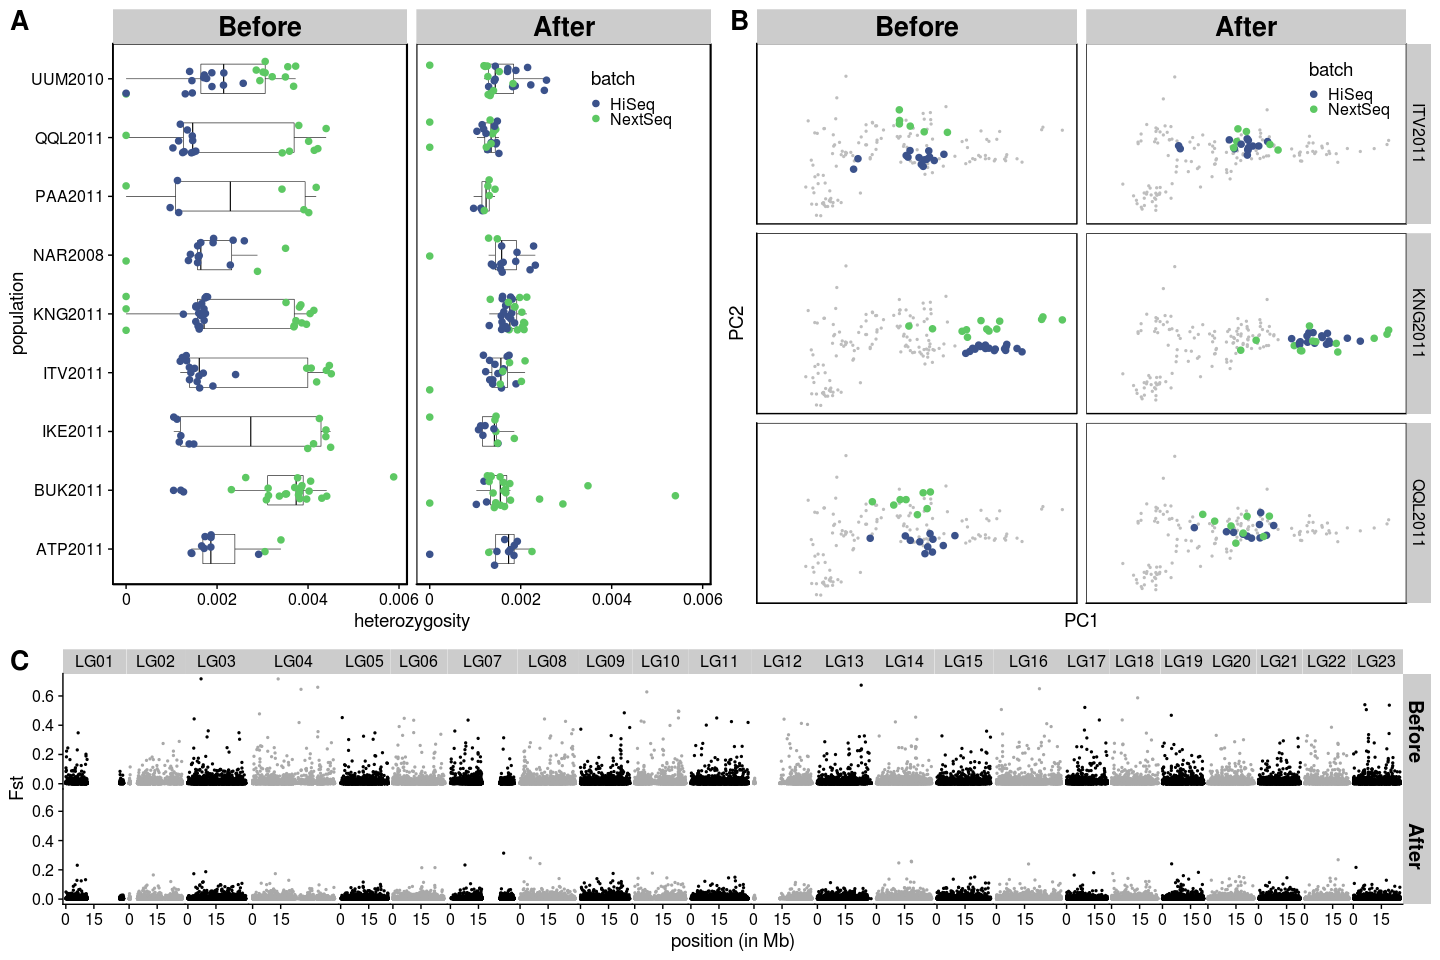
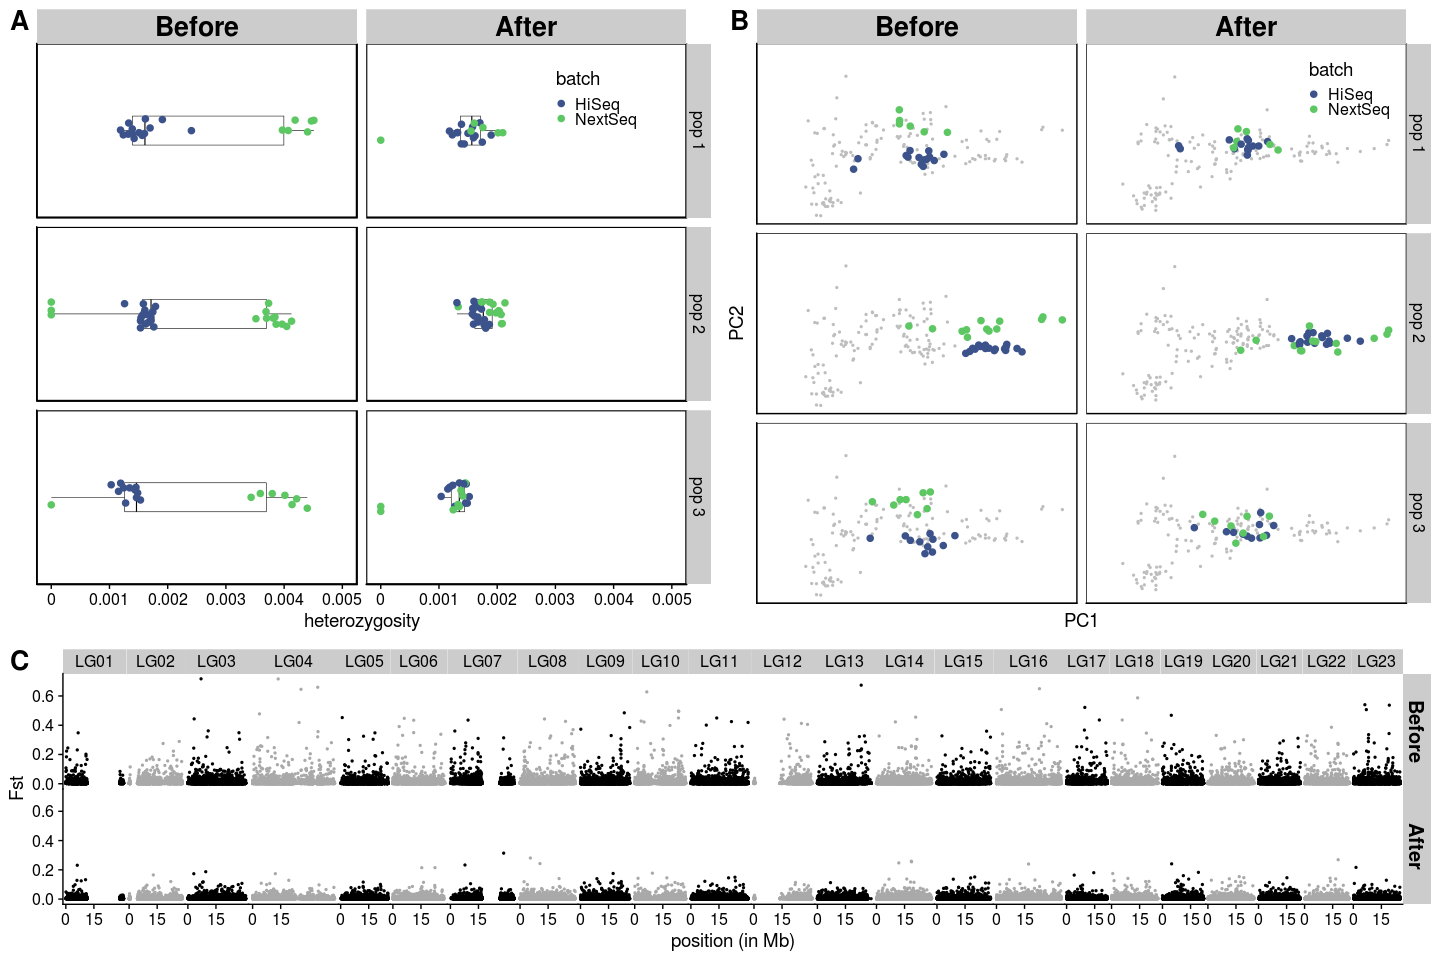
updated figure 1A

diff --git a/markdown/figures.md b/markdown/figures.md
@@ -24,6 +24,8 @@ Both have transitions filtered, have a stringent maximum depth filter of
 
 ``` r
 sample_table <- read_tsv("../sample_lists/sample_table_merged.tsv")
+rename_pop <- tibble(population = c("ITV2011", "KNG2011", "QQL2011"),
+                     population_new =c("pop 1", "pop 2", "pop 3"))
 for (i in 1:nrow(sample_table)){
   sample_seq_id <- sample_table$sample_seq_id[i]
   sample_id <- sample_table$sample_id_corrected[i]
@@ -49,23 +51,30 @@ for (i in 1:nrow(sample_table)){
     het_final <- bind_rows(het_final, het_combined)
   }
 }
-set.seed(42)
-het_plot <- het_final %>%
+het_gg <- het_final %>%
+  left_join(rename_pop) %>%
   mutate(type=fct_relevel(type, c("Before", "After"))) %>%
-  mutate(batch=ifelse(data_type=="pe", "NextSeq", "HiSeq")) %>%
+  mutate(batch=ifelse(data_type=="pe", "NextSeq", "HiSeq")) 
+set.seed(42)
+het_plot <- het_gg %>%
+  filter(population %in% c("KNG2011", "QQL2011", "ITV2011")) %>%
   ggplot(aes(x=population, y=het)) +
-  geom_boxplot(outlier.alpha = 0, color="black", size=0.2, width=0.5) +
-  geom_jitter(aes(color=batch), height = 0, width = 0.3, size=2) +
+  geom_boxplot(outlier.alpha = 0, color="black", size=0.2, width=0.2) +
+  #geom_jitter(data=(het_gg %>% dplyr::select(-population_new) %>% filter(! population %in% c("KNG2011", "QQL2011", "ITV2011"))) , color="grey", height = 0, width = 0.3, size=1) +
+  geom_jitter(aes(color=batch), height = 0, width = 0.1, size=2) +
   scale_color_viridis_d(begin=0.25, end=0.75) +
-  scale_y_continuous(labels = c("0", "0.002", "0.004", "0.006")) +
   ylab("heterozygosity") +
-  facet_grid(~type) +
+  facet_grid(population_new~type, scales = "free_y") +
+  xlab(" ") +
+  scale_y_continuous(limits = c(0, 0.005), breaks = 0.001*(0:5), labels = c("0", "0.001", "0.002", "0.003", "0.004", "0.005")) +
   coord_flip() +
   theme_cowplot() +
   theme(panel.background=element_rect(colour="black", size=0.8),
         legend.position = c(0.8, 0.9),
         legend.key.size = unit(0.5, 'lines'),
-        strip.text.x = element_text(face = "bold", size=20))
+        strip.text.x = element_text(face = "bold", size=20),
+        axis.text.y = element_blank(),
+        axis.ticks.y = element_blank())
 het_plot
 ```
 
@@ -94,15 +103,13 @@ pca_combined <- bind_rows(bind_cols(pca_before, type="Before"),
   mutate(type=fct_relevel(type, c("Before", "After"))) %>%
   mutate(batch=ifelse(data_type=="se", "HiSeq", "NextSeq"))
 pca_combined_select_pops <- filter(pca_combined, population %in% c("KNG2011", "QQL2011", "ITV2011"))
-pca_combined_background <- bind_rows(mutate(pca_combined, population = "KNG2011"),
-                                     mutate(pca_combined, population = "QQL2011"),
-                                     mutate(pca_combined, population = "ITV2011"))
 pca_plot <- pca_combined_select_pops %>%
+  left_join(rename_pop) %>%
   ggplot(aes(x=PC1, y=PC2)) +
-  geom_point(data=pca_combined_background, color="grey", size=0.5) +
+  geom_point(data=pca_combined, color="grey", size=0.5) +
   geom_point(aes(color=batch), size=2) +
   scale_color_viridis_d(begin=0.25, end=0.75) +
-  facet_grid(population~type) +
+  facet_grid(population_new~type) +
   ylim(NA, 0.2) +
   xlim(-0.15, NA) +
   theme_cowplot() +
@@ -114,6 +121,8 @@ pca_plot <- pca_combined_select_pops %>%
         strip.text.x = element_text(face = "bold", size=20))
 pca_plot
 ```
+
+    ## Warning: Removed 12 rows containing missing values (geom_point).
 
 ![](figures_files/figure-gfm/unnamed-chunk-4-1.png)<!-- -->
 
@@ -167,7 +176,14 @@ fst_plot
 
 ``` r
 top <- plot_grid(het_plot, pca_plot, labels = c('A', 'B'), label_size = 20)
+```
+
+    ## Warning: Removed 12 rows containing missing values (geom_point).
+
+``` r
 plot_grid(top, fst_plot, labels = c(NA, 'C'), label_size = 20, nrow = 2, rel_heights = c(1, 0.5))
 ```
+
+    ## Warning: Removed 1 rows containing missing values (geom_text).
 
 ![](figures_files/figure-gfm/unnamed-chunk-6-1.png)<!-- -->
